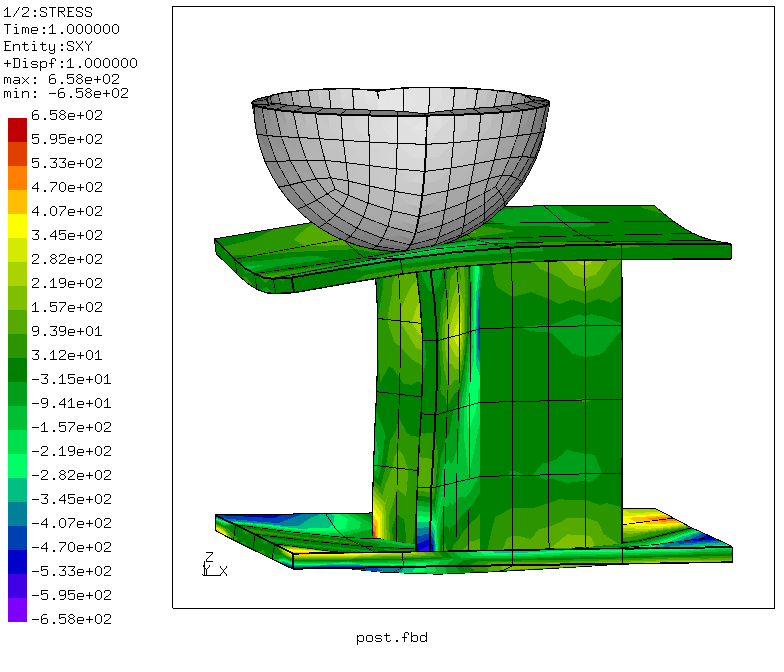
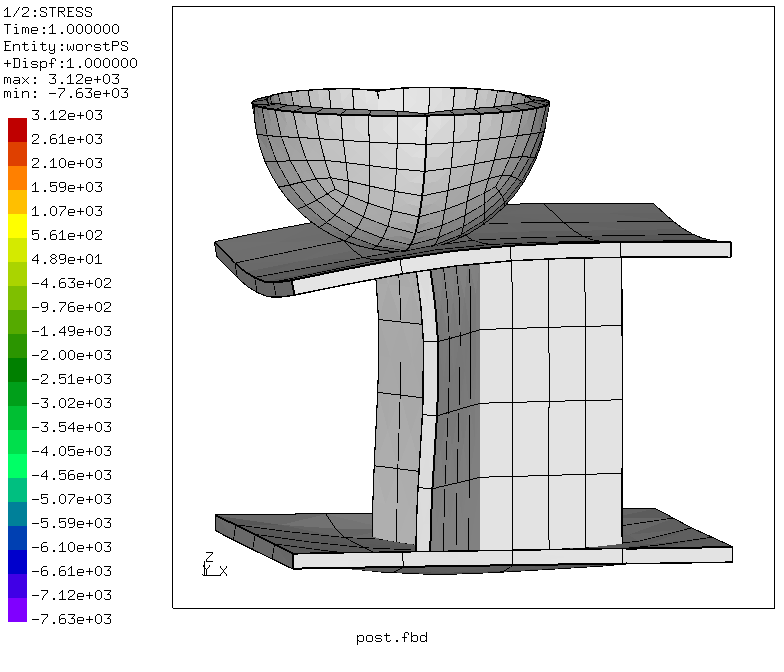
test with 2.11,add plot of worstPS

diff --git a/Contact/Shell1/README.md b/Contact/Shell1/README.md
@@ -34,4 +34,5 @@ Create a shaded image of the deformed structure
 > cgx -b post.fbd
 ```
 
-<img src="Refs/def.png" width="400">
+<img src="Refs/def.png" width="400" title="Deformed geometry">
+<img src="Refs/worstPS.png" width="400" title="Worst principal stress">
